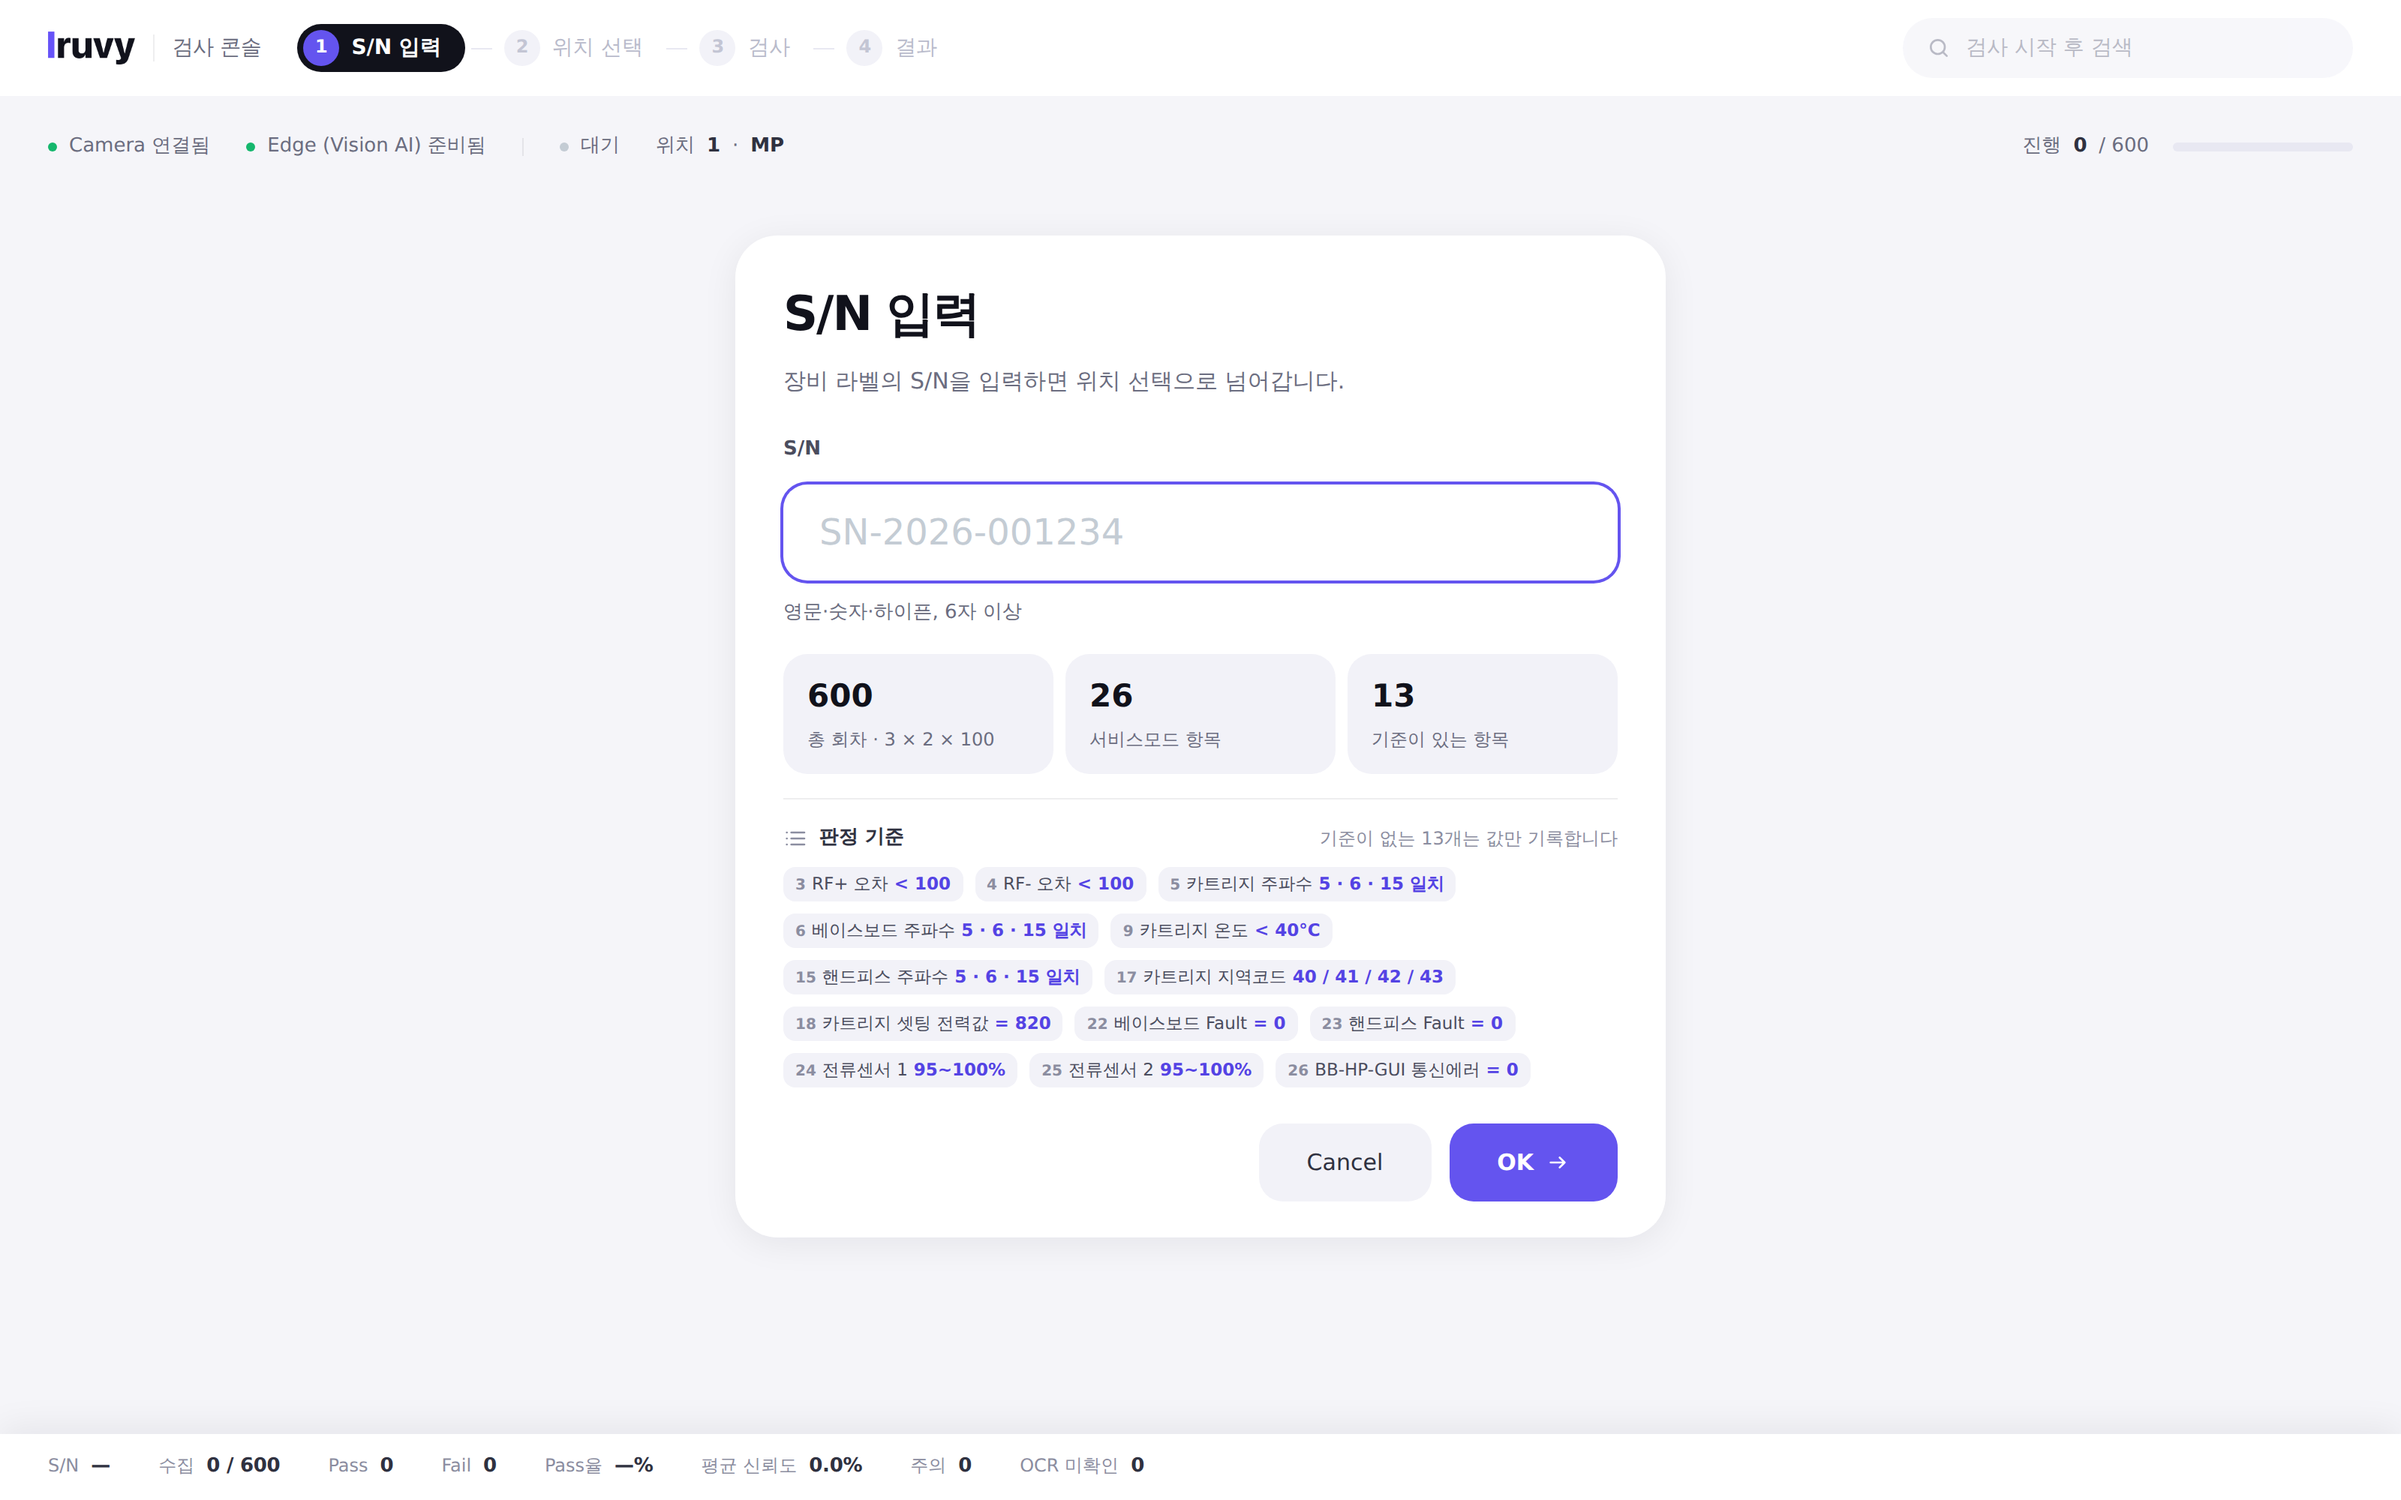
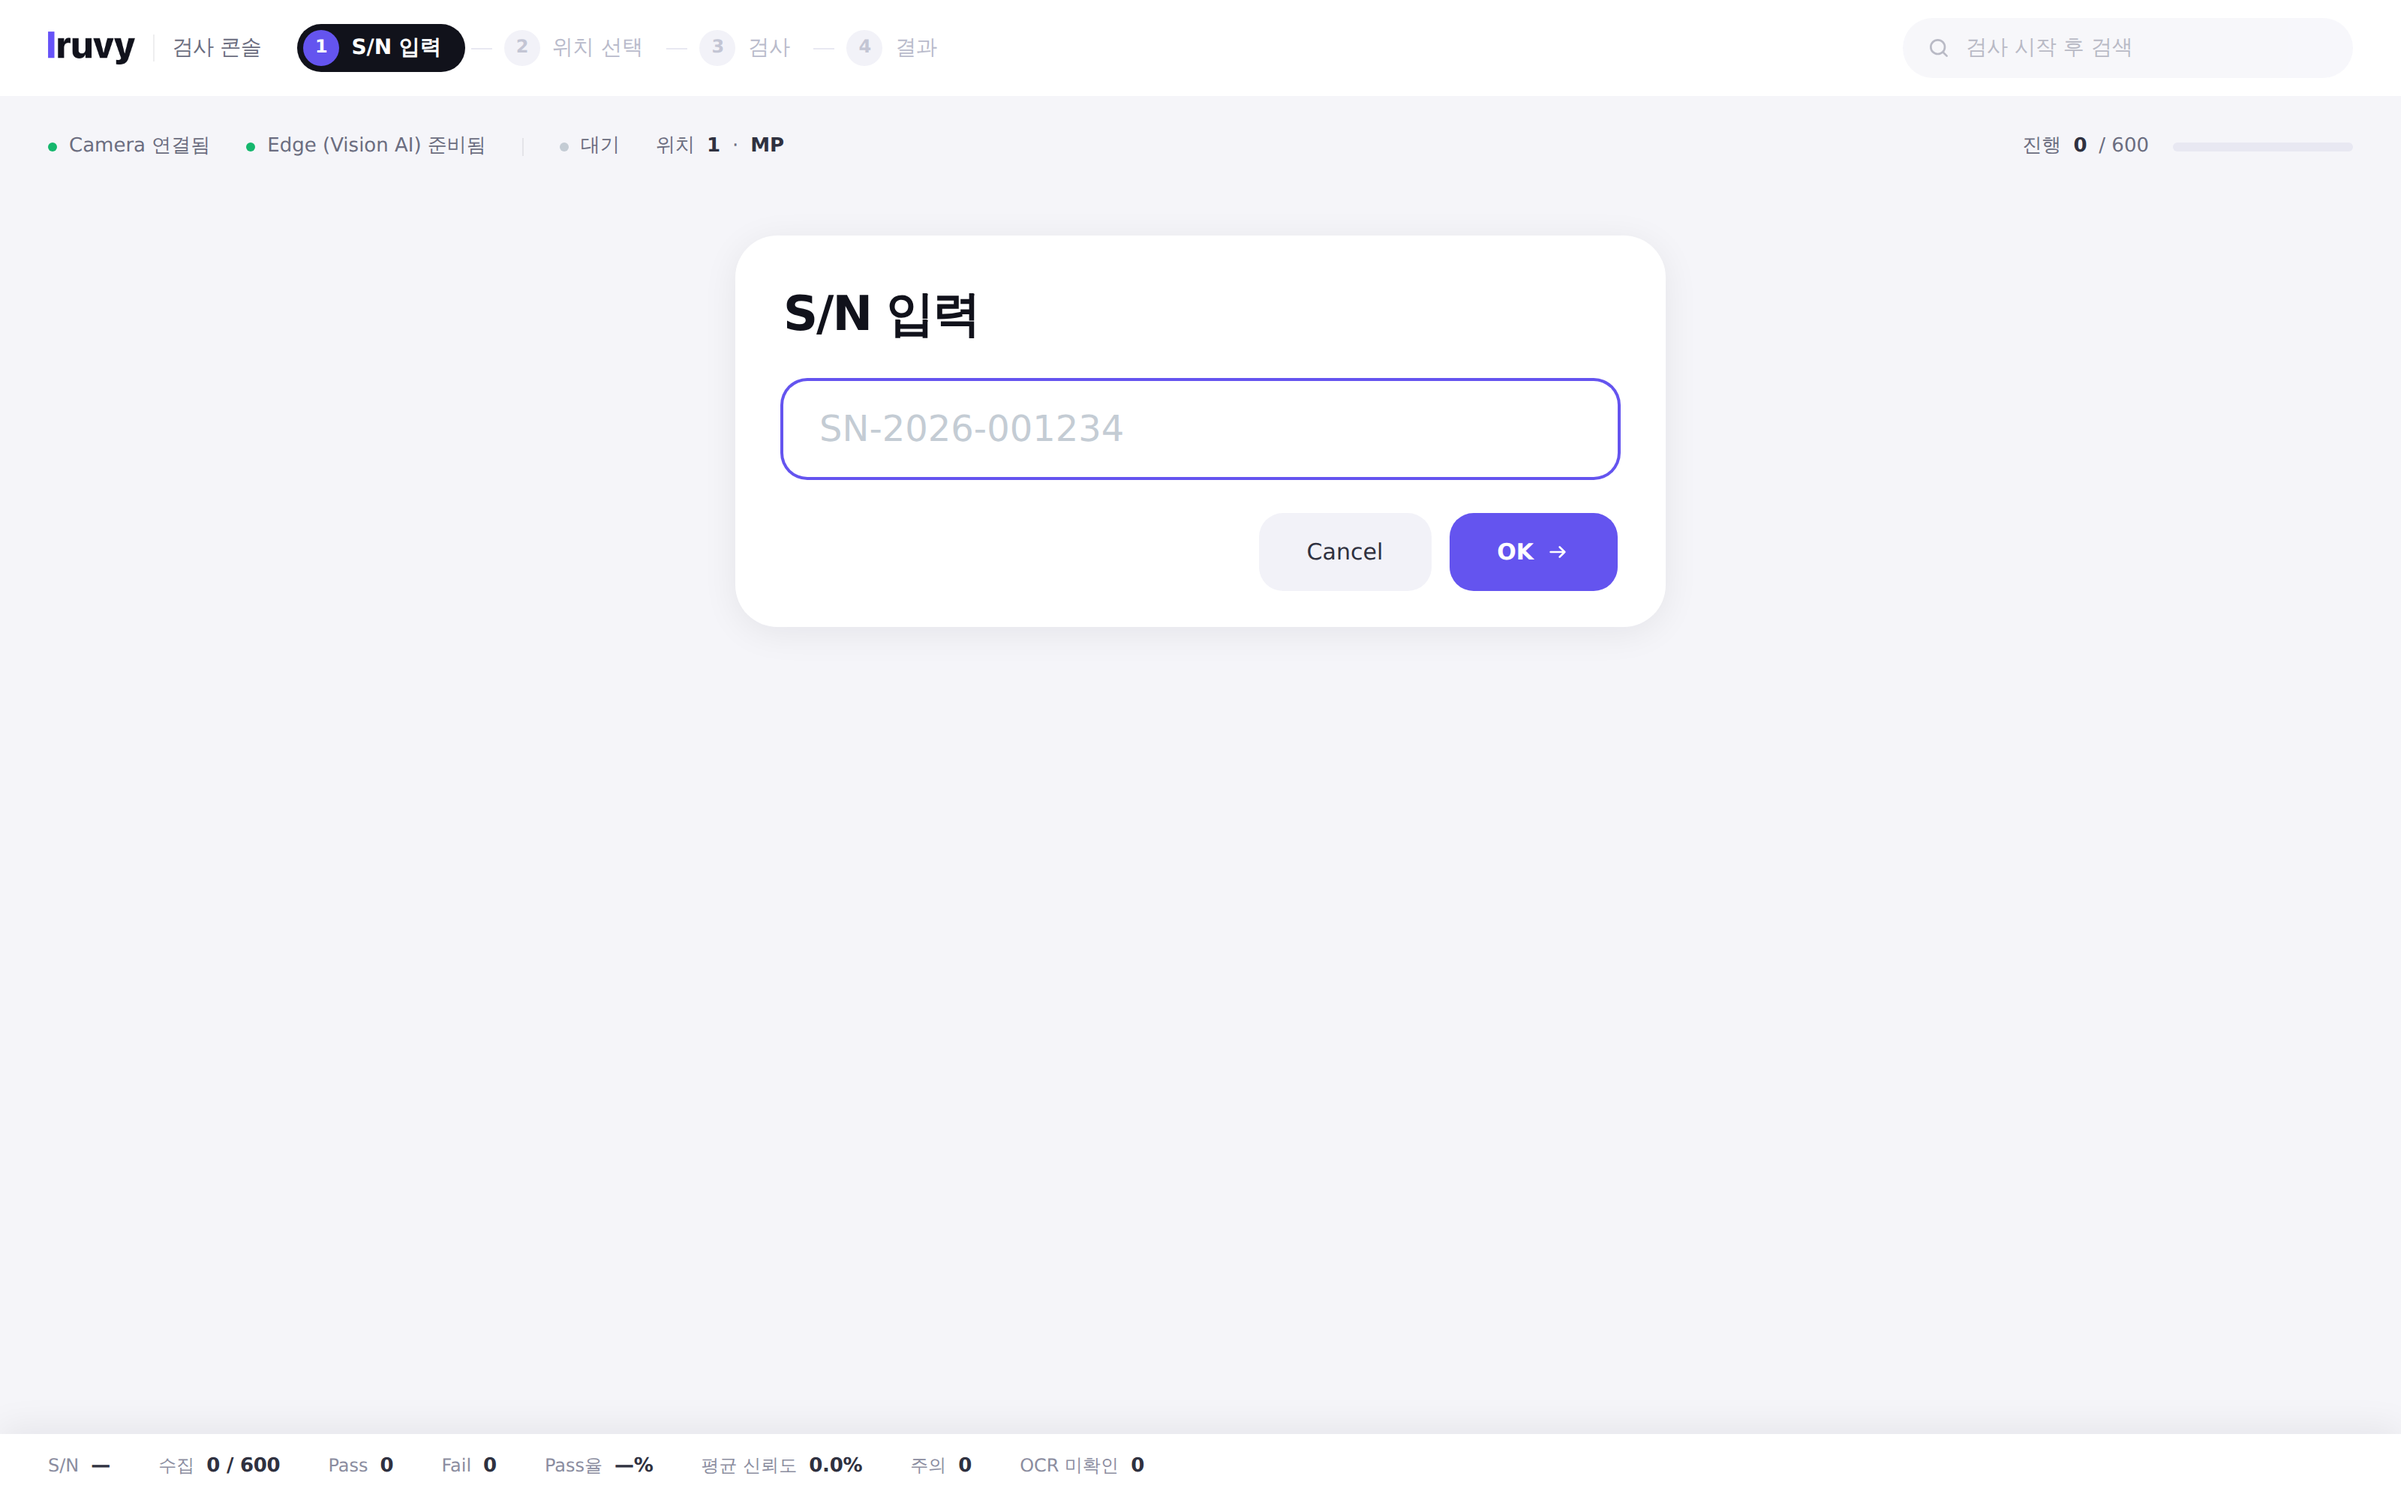
S/N screen: input only
Strip everything but the serial input. Remove the intro line under the
title, the 600 / 26 / 13 stat cards, and the 13 rule chips — the inspect
and results screens already say all of that. Drop the persistent format
hint too; the format is only worth saying when it is wrong, and the error
line already says it. The visible "S/N" label is redundant with the title
and placeholder, so it is screen-reader only now.

Delete the CSS that went dead with it.

Claude-Session: https://claude.ai/code/session_01HK7ujvVD3H77SCkeS2NCmn

diff --git a/styles.css b/styles.css
@@ -204,20 +204,13 @@ svg.i { width: 16px; height: 16px; flex: 0 0 auto; }
 /* ───── 1. S/N ───── */
 .sn-wrap { max-width: 620px; margin: var(--s5) auto 0; }
 .sn-card { padding: var(--s6) var(--s6) var(--s5); border-radius: var(--r-xl); }
-.sn-card .intro { color: var(--muted); margin-top: var(--s3); font-size: 15px; }
 .sn-field { margin-top: var(--s5); }
-.sn-field label { display: block; font-size: 13px; font-weight: 600; color: var(--ink-3); margin-bottom: var(--s3); }
 .sn-input { width: 100%; height: 64px; border: 0; border-radius: var(--r); padding: var(--s3) var(--s5); font-family: var(--num); font-size: 24px; font-weight: 600; letter-spacing: .5px; background: var(--sunken); text-transform: uppercase; transition: box-shadow .2s var(--ease), background .2s var(--ease); }
 .sn-input::placeholder { color: #c4ccd4; font-weight: 400; letter-spacing: 0; }
 .sn-input:focus { outline: none; background: var(--card); box-shadow: 0 0 0 2px var(--blue); }
 .sn-input[aria-invalid="true"] { box-shadow: 0 0 0 2px var(--red); }
-.sn-help { font-size: 13px; color: var(--muted); margin-top: var(--s3); }
 .sn-err { font-size: 13px; color: var(--red-text); margin-top: var(--s3); font-weight: 500; }
 .sn-actions { display: flex; justify-content: flex-end; gap: var(--s3); margin-top: var(--s5); }
-.sn-plan { margin-top: var(--s4); display: grid; grid-template-columns: repeat(3, 1fr); gap: var(--s2); }
-.plan { padding: var(--s3) var(--s4); border-radius: var(--r); background: var(--sunken); }
-.plan b { display: block; font-size: 21px; font-weight: 700; font-family: var(--num); }
-.plan span { font-size: 12px; color: var(--muted); }
 
 /* ───── 2. 위치 선택 ───── */
 /* 장비의 실제 배치를 그대로 옮긴 자리(1·2 나란히, 3은 오른쪽 끝). 글로 설명하지 않는다. */
@@ -490,17 +483,6 @@ table.tbl tr.is-target td.idx, table.tbl tr.is-target td.judge { background: #fa
 .needchip.w i { background: var(--map-warn); }
 .needchip.f b { color: var(--red-text); } .needchip.w b { color: var(--amber-text); }
 
-/* ───── S/N 화면의 판정 기준 미리보기 ───── */
-.sn-rules { margin-top: var(--s4); padding-top: var(--s4); border-top: 1px solid var(--hair); display: grid; gap: var(--s2); }
-.sn-rules-h { display: flex; align-items: center; gap: var(--s2); font-size: 13px; font-weight: 600; color: var(--ink-2); }
-.sn-rules-h svg { width: 16px; height: 16px; color: var(--faint); }
-.sn-rules-h small { font-weight: 400; color: var(--faint); font-size: 12px; margin-left: auto; }
-.sn-rule-chips { display: flex; flex-wrap: wrap; gap: var(--s2); }
-.rchip { display: inline-flex; align-items: baseline; gap: 4px; padding: 2px var(--s2); border-radius: var(--r-xs);
-  background: var(--sunken); font-size: 11.5px; color: var(--ink-3); }
-.rchip b { font-family: var(--num); font-size: 10px; font-weight: 700; color: var(--faint); }
-.rchip i { font-style: normal; font-family: var(--num); font-size: 11.5px; font-weight: 600; color: var(--blue-text); }
-
 /* ───── 1~600 회차 맵 ───── */
 /* 한 칸이 회차 하나, 한 줄이 위치·모드 하나(100회). 여섯 줄로 600회가 들어온다. */
 .runmap-wrap { overflow-x: auto; }
@@ -648,7 +630,7 @@ body:not(.preview) .action-bar { bottom: 44px; }
   .pos-done-badge { top: var(--s4); right: var(--s4); width: 28px; height: 28px; }
   .pos-bar { left: var(--s4); right: var(--s4); bottom: var(--s4); }
   .head { flex-direction: column; align-items: stretch; }
-  .sn-card { padding: var(--s5); } .sn-plan { grid-template-columns: 1fr; }
+  .sn-card { padding: var(--s5); }
   .action-bar { flex-wrap: wrap; }
   .action-bar .actions { width: 100%; }
   .action-bar .actions .btn { flex: 1; }

diff --git a/app.js b/app.js
@@ -320,11 +320,8 @@
   }
 
   function renderSerial() {
-    app.innerHTML = `<div class="sn-wrap"><section class="card sn-card"><h1>S/N 입력</h1><p class="intro">장비 라벨의 S/N을 입력하면 위치 선택으로 넘어갑니다.</p>
-      <form id="sn-form" novalidate><div class="sn-field"><label for="sn-input">S/N</label><input class="sn-input" id="sn-input" placeholder="SN-2026-001234" maxlength="32" autocomplete="off" spellcheck="false" value="${esc(state.serial)}" aria-describedby="sn-help sn-err"><p class="sn-help" id="sn-help">영문·숫자·하이픈, 6자 이상</p><p class="sn-err" id="sn-err" role="alert" hidden></p></div>
-      <div class="sn-plan"><div class="plan"><b>${TARGET * 6}</b><span>총 회차 · 3 × 2 × ${TARGET}</span></div><div class="plan"><b>${FIELDS.length}</b><span>서비스모드 항목</span></div><div class="plan"><b>${RULED.length}</b><span>기준이 있는 항목</span></div></div>
-      <div class="sn-rules"><span class="sn-rules-h">${icon('list')}판정 기준<small>기준이 없는 ${FIELDS.length - RULED.length}개는 값만 기록합니다</small></span>
-        <span class="sn-rule-chips">${RULED.map(f => `<span class="rchip"><b>${f.n}</b>${esc(f.label)}<i>${esc(ruleText(f))}</i></span>`).join('')}</span></div>
+    app.innerHTML = `<div class="sn-wrap"><section class="card sn-card"><h1>S/N 입력</h1>
+      <form id="sn-form" novalidate><div class="sn-field"><label class="sr-only" for="sn-input">S/N</label><input class="sn-input" id="sn-input" placeholder="SN-2026-001234" maxlength="32" autocomplete="off" spellcheck="false" value="${esc(state.serial)}" aria-describedby="sn-err"><p class="sn-err" id="sn-err" role="alert" hidden></p></div>
       <div class="sn-actions"><button type="reset" class="btn btn-xl">Cancel</button><button type="submit" class="btn btn-xl btn-primary">OK ${icon('arrow')}</button></div></form></section></div>`;
     const form = document.getElementById('sn-form'), input = document.getElementById('sn-input'), err = document.getElementById('sn-err'); input.focus();
     form.addEventListener('submit', e => { e.preventDefault(); const v = input.value.trim().toUpperCase(); if (!/^[A-Z0-9-]{6,}$/.test(v)) { err.textContent = '형식이 올바르지 않습니다. 영문·숫자·하이픈 6자 이상으로 입력하세요.'; err.hidden = false; input.setAttribute('aria-invalid', 'true'); input.focus(); return; } state.serial = v; state.screen = 'position'; render(); });

diff --git a/README.md b/README.md
@@ -17,6 +17,7 @@
 - **제목은 전부 명사**입니다. `S/N 입력` · `위치 선택` · `위치 1 검사` · `검사 결과` · `회차 맵` · `판정 기준`. "…하세요", "…할까요?" 같은 문장 제목은 쓰지 않습니다.
 - **배치는 설명하지 않습니다.** 위치 1·2를 나란히, 3을 오른쪽 끝에 두는 것으로 끝입니다. 장비 앞에 서면 같은 모양이 보이니 글로 적을 이유가 없습니다.
 - **위치 카드에는 숫자만** 둡니다. Pass/Fail은 결과 화면이 다 보여주므로 여기서 미리 셀 필요가 없습니다. 완료 체크와 얇은 진행 막대만 남겼습니다.
+- **S/N 화면에는 입력만** 둡니다. 제목 · 입력칸 · Cancel/OK 뿐입니다. 총 회차나 판정 기준은 검사·결과 화면에서 어차피 보여주므로 여기서 미리 늘어놓지 않고, 형식 안내도 틀렸을 때만 한 줄 나옵니다.
 
 ## 모든 화면이 같은 말을 합니다
 
@@ -24,7 +25,7 @@
 
 | 화면 | 무엇을 말하는가 |
 | --- | --- |
-| **S/N 입력** | 무엇을 어떻게 볼지 먼저 보여줍니다 — 총 600회 · 서비스모드 26개 항목 · 기준이 있는 13개, 그리고 그 13개의 규칙을 칩으로 |
+| **S/N 입력** | S/N 하나만. 형식이 틀렸을 때만 그 자리에 한 줄로 알려줍니다 |
 | **위치 선택** | 숫자 1 · 2 · 3 만. 장비 배치와 같은 자리에 두었으니 글로 설명하지 않고, Pass/Fail은 어차피 결과에서 봅니다. 완료 표시와 진행 막대만 남겼습니다 |
 | **검사** | 실시간 회차 맵 + 같은 요약 한 줄 + 최근 Fail. 지수 카드도 `Fail · 주의 · OCR 미확인`로 쪼개 보여줍니다 |
 | **결과** | 1–600 회차 맵, 확인이 필요한 회차 번호 목록, 회차 로그 표 |
@@ -85,7 +86,7 @@
 
 | screen 값 | 화면 |
 | --- | --- |
-| `serial` | 01 · S/N 입력 · 판정 기준 미리보기 |
+| `serial` | 01 · S/N 입력 |
 | `position` | 02 · 위치 선택 |
 | `ready` | 03 · 검사 준비 (▷ ⏸ ◻, 현재 개수 / 100) |
 | `running` | 04 · Vision AI 감지 중 (회차 맵 실시간) |
